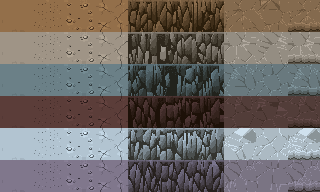
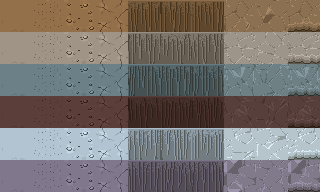
feat(odyssee): grottes en pentes de roche (plus de blocs carrés), montagnes des entrées inclinées avec une bouche en arche ; Odyssée 3.85
- relief des grottes calculé sur un champ de hauteur (4 × 4 facettes par case) : pentes, coins saillants arrondis, coins rentrants en creux
- stries de la roche dans le sens de la pente, pied plus sombre, lumière d'en haut à gauche
- monticules des entrées de grottes en troncs de pyramide, arche sombre

Claude-Session: https://claude.ai/code/session_01E9CUaRXpXWBZHeUs2KXzJU

diff --git a/odyssee/js/render/world3d.js b/odyssee/js/render/world3d.js
@@ -87,7 +87,7 @@ function tex(canvasOrImg) {
 const hash = (x, y) => { let h = (x * 374761393 + y * 668265263) ^ 0x5bd1e995; h = Math.imul(h ^ (h >>> 13), 1274126177); return ((h ^ (h >>> 16)) >>> 0) / 4294967296; };
 
 /** reliefs des grottes : hauteur à l'écran (en cases) du haut de chaque gradin, la première marche est la plus haute */
-const RLEVEL = [0, 0.9, 1.4, 1.8].map((h) => h * Math.tan(EL)), RPX = (k) => (RLEVEL[k + 1] - RLEVEL[k]) / Math.tan(EL);
+const RLEVEL = [0, 0.75, 1.2, 1.6].map((h) => h * Math.tan(EL)), RPX = (k) => (RLEVEL[k + 1] - RLEVEL[k]) / Math.tan(EL);
 /** gradin de chaque case de roche : distance (en cases) au sol praticable le plus proche, plafonnée à 3 */
 function caveTiers(m) {
   const n = m.w * m.h, d = new Uint8Array(n).fill(255), q = [];
@@ -111,6 +111,36 @@ function caveTiers(m) {
   }
   return d;
 }
+/** relief des grottes en pentes (comme HeartGold / SoulSilver : de la roche, pas des blocs carrés) : hauteur aux sommets
+ *  d'une grille de RN × RN points par case. Chaque gradin monte en pente sur RS case depuis le bord de la roche du gradin
+ *  du dessous (distance au plus proche carré qui n'en fait pas partie) : coins saillants arrondis, coins rentrants en creux */
+const RN = 4, RS = 0.5;
+function caveHeights(m, tiers) {
+  const W = m.w * RN + 1, H = m.h * RN + 1, h = new Float32Array(W * H);
+  // toute la roche monte au moins d'un gradin (même au ras d'un sol au nord : sa pente regarde vers le fond, on ne la voit pas)
+  const tierAt = (x, y) => (x < 0 || y < 0 || x >= m.w || y >= m.h ? 3 : m.t[y * m.w + x] === T.CAVEWALL ? Math.max(1, tiers[y * m.w + x]) : 0);
+  const R = Math.ceil(RS) + 1;
+  for (let j = 0; j < H; j++) for (let i = 0; i < W; i++) {
+    const px = i / RN, pz = j / RN, cx = Math.floor(px - 1e-6), cz = Math.floor(pz - 1e-6);
+    let v = 0;
+    for (let t = 1; t <= 3; t++) {
+      // distance au plus proche carré de gradin < t
+      let d = 9;
+      for (let b = cz - R; b <= cz + R + 1; b++) for (let a = cx - R; a <= cx + R + 1; a++) {
+        if (tierAt(a, b) >= t) continue;
+        const dx = Math.max(a - px, 0, px - (a + 1)), dz = Math.max(b - pz, 0, pz - (b + 1));
+        const dd = Math.hypot(dx, dz); if (dd < d) d = dd;
+      }
+      if (d <= 0) break;
+      const u = Math.min(1, d / RS);
+      v += (RLEVEL[t] - RLEVEL[t - 1]) * (1 - 0.35 * (1 - u) * (1 - u) - 0.65 * (1 - u));
+      if (u < 1) break;
+    }
+    h[j * W + i] = v;
+  }
+  return { h, W };
+}
+
 /** roche et sol d'une grotte selon le lieu : grottes marines, magma, glace, montagne, sinon terre */
 export function caveBiome(m) {
   const id = m.id || '', nm = (m.name || '').toLowerCase();
@@ -151,6 +181,54 @@ function rockBox(G, A, bio, x0, z0, x1, z1, y0, y1, seed, topCell = null) {
   }
 }
 
+/** bloc de roche en pente (monticule des entrées de grottes, comme HeartGold / SoulSilver) : faces sud / est / ouest
+ *  inclinées vers l'intérieur de `s` cases, coins en biais ; stries de la roche dans le sens de la pente, pied plus sombre */
+function rockSlope(G, A, bio, x0, z0, x1, z1, y0, y1, s, seed, topCell = null) {
+  const H = (y1 - y0) / Math.tan(EL), rows = Math.max(1, Math.round(H / 0.8));
+  const cell = (i, k) => A[`rw_${bio}_${Math.floor(hash(i * 7 + seed, k * 13 + seed) * 3)}`] || A[`rw_${bio}_0`];
+  const uv = (c, u, v) => [c[0] + (c[2] - c[0]) * u, c[1] + (c[3] - c[1]) * v];
+  const foot = (t) => 0.66 + 0.34 * Math.min(1, t * 1.8);
+  const lerp = (a, b, f) => a + (b - a) * f;
+  for (let r = 0; r < rows; r++) {
+    const ta = r / rows, tb = (r + 1) / rows, ya = lerp(y0, y1, ta), yb = lerp(y0, y1, tb);
+    // sud : de x0..x1 en bas à x0+s..x1-s en haut
+    const nx = Math.max(1, Math.round(x1 - x0));
+    for (let i = 0; i < nx; i++) {
+      const fa = i / nx, fb = (i + 1) / nx, c = cell(i, r * 3 + 1);
+      const xa = (t, f) => lerp(x0 + s * t, x1 - s * t, f), za = z1 - s * ta, zb = z1 - s * tb;
+      G.quadv([[xa(ta, fa), ya, za], [xa(ta, fb), ya, za], [xa(tb, fb), yb, zb], [xa(tb, fa), yb, zb]],
+        [uv(c, 0, 1), uv(c, 1, 1), uv(c, 1, 0), uv(c, 0, 0)], [0.92 * foot(ta), 0.92 * foot(ta), 0.92 * foot(tb), 0.92 * foot(tb)]);
+    }
+    // est et ouest : de z0..z1 en bas à z0+s..z1-s en haut
+    const nz = Math.max(1, Math.round(z1 - z0));
+    for (let i = 0; i < nz; i++) {
+      const fa = i / nz, fb = (i + 1) / nz, c = cell(i + 50, r * 3 + 2);
+      const zz = (t, f) => lerp(z0 + s * t, z1 - s * t, f);
+      const xe = (t) => x1 - s * t, xw = (t) => x0 + s * t;
+      G.quadv([[xe(ta), ya, zz(ta, fb)], [xe(ta), ya, zz(ta, fa)], [xe(tb), yb, zz(tb, fa)], [xe(tb), yb, zz(tb, fb)]],
+        [uv(c, 0, 1), uv(c, 1, 1), uv(c, 1, 0), uv(c, 0, 0)], [0.7 * foot(ta), 0.7 * foot(ta), 0.7 * foot(tb), 0.7 * foot(tb)]);
+      G.quadv([[xw(ta), ya, zz(ta, fa)], [xw(ta), ya, zz(ta, fb)], [xw(tb), yb, zz(tb, fb)], [xw(tb), yb, zz(tb, fa)]],
+        [uv(c, 0, 1), uv(c, 1, 1), uv(c, 1, 0), uv(c, 0, 0)], [1.0 * foot(ta), 1.0 * foot(ta), 1.0 * foot(tb), 1.0 * foot(tb)]);
+    }
+  }
+  const t = topCell || A[`rt_${bio}_0`], X0 = x0 + s, X1 = x1 - s, Z0 = z0 + s, Z1 = z1 - s;
+  for (let z = Z0; z < Z1 - 1e-6; z += 1) for (let x = X0; x < X1 - 1e-6; x += 1) {
+    const xe = Math.min(X1, x + 1), ze = Math.min(Z1, z + 1);
+    flat(G, x, z, xe, ze, y1, [t[0], t[1], t[0] + (t[2] - t[0]) * (xe - x), t[1] + (t[3] - t[1]) * (ze - z)], 1.04);
+  }
+}
+
+/** bouche de grotte : une arche sombre au bord irrégulier, plus noire au fond (pixel art, 32 × 24) */
+function grotteArche() {
+  const c = document.createElement('canvas'); c.width = 32; c.height = 24; const x = c.getContext('2d');
+  for (let py = 0; py < 24; py++) for (let px = 0; px < 32; px++) {
+    const dx = (px + 0.5 - 16) / 16, top = 24 - 22 * Math.sqrt(Math.max(0, 1 - dx * dx * dx * dx)) + (hash(px, 7) < 0.3 ? 1 : 0);
+    if (py + 0.5 < top) continue;
+    const edge = py + 0.5 < top + 1.6 || Math.abs(dx) > 0.9;
+    x.fillStyle = edge ? '#2a2420' : py < 14 ? '#0d0a08' : '#060504'; x.fillRect(px, py, 1, 1);
+  }
+  return c;
+}
 /** accumulateur de géométrie (quads indexés) */
 class Geo {
   constructor() { this.p = []; this.uv = []; this.c = []; this.i = []; this.n = 0; this.an = []; }
@@ -160,6 +238,13 @@ class Geo {
     this.p.push(...a, ...b, ...c, ...d);
     this.uv.push(u0, v1, u1, v1, u1, v0, u0, v0);
     for (let k = 0; k < 4; k++) this.c.push(shade, shade, shade);
+    const n = this.n; this.i.push(n, n + 1, n + 2, n, n + 2, n + 3); this.n += 4;
+  }
+  /** quad aux coordonnées de texture et teintes données sommet par sommet (pentes des grottes) */
+  quadv(ps, uvs, sh) {
+    for (const q of ps) this.p.push(q[0], q[1], q[2]);
+    for (const q of uvs) this.uv.push(q[0], q[1]);
+    for (const k of sh) this.c.push(k, k, k);
     const n = this.n; this.i.push(n, n + 1, n + 2, n, n + 2, n + 3); this.n += 4;
   }
   build() {
@@ -300,6 +385,7 @@ export class WorldView {
     this.chunks = new Map(); this.glows = new THREE.Group(); this.root.add(this.glows);
     this.decoAt = new Map(); for (const d of map.deco) this.decoAt.set(d.x + ',' + d.y, d);
     this.tiers = map.outdoor ? null : caveTiers(map); this.biome = caveBiome(map);
+    this.rh = this.tiers ? caveHeights(map, this.tiers) : null;
     this.scene.background = new THREE.Color(map.outdoor ? '#1d4f2a' : '#0c0a10');
     if (map.id === 'monde') this.scene.background = new THREE.Color('#1d4f2a');
     this.buildBuildings();
@@ -404,27 +490,46 @@ export class WorldView {
     }
   }
 
-  /** paroi de grotte en gradins (comme HeartGold / SoulSilver) : chaque case de roche monte d'un gradin par case
-   *  qui l'éloigne du sol praticable (trois au plus) ; une face de roche par gradin là où le voisin est plus bas */
+  /** roche de grotte en pentes : la case est découpée en RN × RN facettes posées sur le champ de hauteur ; une facette
+   *  plate prend le dessus de roche, une facette en pente la paroi striée, les stries dans le sens de la pente ;
+   *  la lumière vient d'en haut à gauche */
   reliefCell(G, x, y) {
-    const m = this.map, A = this.A.cells, b = this.biome, tier = this.tierAt(x, y), h = Math.max(RLEVEL[tier], 0.006);
-    // face : le haut de la tuile de roche, sur la hauteur du gradin (un pixel de tuile = un pixel d'écran)
-    const face = (k, i) => { const c = A[`rw_${b}_${Math.floor(hash(x * 3 + k, y * 5 + i) * 3)}`] || A[`rw_${b}_0`]; return [c[0], c[1], c[2], c[1] + (c[3] - c[1]) * RPX(i)]; };
-    let edge = false;
-    for (const [dx, dy, side] of [[0, 1, 's'], [1, 0, 'e'], [-1, 0, 'w']]) {
-      const hn = m.get(x + dx, y + dy) === T.CAVEWALL ? this.tierAt(x + dx, y + dy) : 0;
-      if (side === 's' && hn < tier) edge = true;
-      for (let k = hn; k < tier; k++) {
-        const c = face(side.charCodeAt(0), k), y0 = RLEVEL[k], y1 = RLEVEL[k + 1];
-        if (side === 's') G.quad([x, y0, y + 1], [x + 1, y0, y + 1], [x + 1, y1, y + 1], [x, y1, y + 1], c[0], c[1], c[2], c[3], 0.86 + k * 0.05);
-        else if (side === 'e') G.quad([x + 1, y0, y + 1], [x + 1, y0, y], [x + 1, y1, y], [x + 1, y1, y + 1], c[0], c[1], c[2], c[3], 0.7);
-        else G.quad([x, y0, y], [x, y0, y + 1], [x, y1, y + 1], [x, y1, y], c[0], c[1], c[2], c[3], 0.7);
+    const A = this.A.cells, b = this.biome, { h, W } = this.rh, tier = Math.max(1, this.tierAt(x, y));
+    const at = (i, j) => h[(y * RN + j) * W + x * RN + i];
+    let flatAll = true; const h0 = at(0, 0);
+    for (let j = 0; j <= RN && flatAll; j++) for (let i = 0; i <= RN; i++) if (Math.abs(at(i, j) - h0) > 1e-4) { flatAll = false; break; }
+    const topC = A[`rt_${b}_${hash(x + 11, y + 13) < 0.7 ? 0 : 1}`] || A[`rt_${b}_0`];
+    const dark = 1.08 - tier * 0.05;
+    if (flatAll) { flat(G, x, y, x + 1, y + 1, h0, topC, dark); return; }
+    const L = [-0.42, 1, 0.62], LN = Math.hypot(...L);
+    const uvOf = (c, lu, lv) => [c[0] + (c[2] - c[0]) * lu, c[1] + (c[3] - c[1]) * lv];
+    for (let j = 0; j < RN; j++) for (let i = 0; i < RN; i++) {
+      // sommets : a = sud-ouest, b = sud-est, c = nord-est, d = nord-ouest
+      const ha = at(i, j + 1), hb = at(i + 1, j + 1), hc = at(i + 1, j), hd = at(i, j);
+      const x0 = x + i / RN, x1 = x + (i + 1) / RN, z0 = y + j / RN, z1 = y + (j + 1) / RN;
+      const ps = [[x0, ha, z1], [x1, hb, z1], [x1, hc, z0], [x0, hd, z0]];
+      const gx = ((hb - ha) + (hc - hd)) / 2 * RN, gz = ((ha - hd) + (hb - hc)) / 2 * RN;
+      const hmax = Math.max(ha, hb, hc, hd), hmin = Math.min(ha, hb, hc, hd);
+      if (hmax - hmin < 1e-4) {
+        const lu0 = i / RN, lu1 = (i + 1) / RN, lv0 = j / RN, lv1 = (j + 1) / RN;
+        G.quadv(ps, [uvOf(topC, lu0, lv1), uvOf(topC, lu1, lv1), uvOf(topC, lu1, lv0), uvOf(topC, lu0, lv0)], [dark, dark, dark, dark]);
+        continue;
       }
+      // gradin de la pente : celui dont le haut est juste au-dessus de la facette
+      let t = 1; while (t < 3 && RLEVEL[t] < hmax - 1e-4) t++;
+      const band = RLEVEL[t] - RLEVEL[t - 1];
+      const lv = (q) => Math.min(1, Math.max(0, (RLEVEL[t] - q) / band));
+      const ns = Math.abs(gz) >= Math.abs(gx);
+      const c = A[`rw_${b}_${Math.floor(hash(x * 3 + (ns ? 1 : 2), y * 5 + t) * 3)}`] || A[`rw_${b}_0`];
+      // le long de la pente : u suit le bord (x pour une pente nord-sud, z pour une pente est-ouest)
+      const lu = ns ? [i / RN, (i + 1) / RN, (i + 1) / RN, i / RN] : [(j + 1) / RN, (j + 1) / RN, j / RN, j / RN];
+      const uvs = [uvOf(c, lu[0], lv(ha)), uvOf(c, lu[1], lv(hb)), uvOf(c, lu[2], lv(hc)), uvOf(c, lu[3], lv(hd))];
+      const n = [-gx, 1, -gz], nn = Math.hypot(...n), dot = (n[0] * L[0] + n[1] * L[1] + n[2] * L[2]) / (nn * LN);
+      const sh = Math.min(1.1, 0.68 + 0.45 * Math.max(0, dot)) * (1 - (t - 1) * 0.04);
+      // pied de la pente plus sombre (la roche se détache du sol), haut éclairé
+      const foot = (q) => sh * (0.62 + 0.38 * Math.min(1, (q - RLEVEL[t - 1]) / band * 1.6));
+      G.quadv(ps, uvs, [foot(ha), foot(hb), foot(hc), foot(hd)]);
     }
-    // dessus : liseré clair au bord d'une paroi, roche rugueuse ailleurs ; plus c'est haut, plus c'est sombre (le fond de la grotte)
-    if (!tier) return;   // gradin zéro : roche au ras du sol, dessinée avec le sol
-    const top = (edge && A[`rr_${b}_0`]) || A[`rt_${b}_${hash(x + 11, y + 13) < 0.7 ? 0 : 1}`] || A[`rt_${b}_0`];
-    flat(G, x, y, x + 1, y + 1, h, top, 1.02 - tier * 0.06);
   }
   /** détail posé sur une case d'herbe (ou rien) : selon la zone (forêt, neige, cendre) et un tirage fixe par case */
   detailAt(x, y) {
@@ -490,18 +595,13 @@ export class WorldView {
       } else if (t === T.CAVEWALL) {
         if (this.tiers && A['rw_' + this.biome + '_0']) {
           this.reliefCell(Wl, x, y);
-          // rochers pointus (comme dans HeartGold / SoulSilver) : un amas de pointes sur la roche au ras du sol,
-          // et de temps en temps une pointe dressée sur un gradin
-          const b = this.biome, tier = this.tierAt(x, y), v2 = hash(x * 5 + 3, y * 7 + 11);
-          if (!tier) {
-            const r = S[`pic_${b}_${Math.floor(v2 * 3)}`];
-            if (r) {
-              billboard(P, x + 0.5, y + 0.82, SW(r), SH(r), r, 0, v > 0.5);
-              flat(Sh, x + 0.02, y + 0.45, x + 0.98, y + 0.95, 0.015, [S.shadow.u0, S.shadow.v0, S.shadow.u1, S.shadow.v1]);
-            }
-          } else if (v2 < 0.2) {
-            const r = S[`cone_${b}_${Math.floor(hash(x + 41, y + 43) * 3)}`];
-            if (r) billboard(P, x + 0.5 + (v - 0.5) * 0.3, y + 0.7, SW(r), SH(r), r, RLEVEL[tier], v > 0.5);
+          // rochers pointus (comme dans HeartGold / SoulSilver) : de temps en temps un amas de pointes ou une pointe dressée
+          // sur le haut de la roche (là où il est plat)
+          const b = this.biome, tier = Math.max(1, this.tierAt(x, y)), v2 = hash(x * 5 + 3, y * 7 + 11);
+          const { h, W } = this.rh, hh = h[(y * RN + RN / 2) * W + x * RN + RN / 2];
+          if (v2 < 0.16 && hh >= RLEVEL[tier] - 1e-3) {
+            const r = v2 < 0.07 ? S[`pic_${b}_${Math.floor(hash(x + 41, y + 43) * 3)}`] : S[`cone_${b}_${Math.floor(hash(x + 41, y + 43) * 3)}`];
+            if (r) billboard(P, x + 0.5 + (v - 0.5) * 0.25, y + 0.62, SW(r), SH(r), r, hh, v > 0.5);
           }
         } else {
           const south = m.get(x, y + 1) !== T.CAVEWALL, east = m.get(x + 1, y) !== T.CAVEWALL, west = m.get(x - 1, y) !== T.CAVEWALL;
@@ -578,18 +678,17 @@ export class WorldView {
         const geo = new Geo(), A = this.A.cells;
         const th = this.map.zoneAt?.(b.x, b.y)?.theme, bio = th === 'snow' ? 'glace' : th === 'volcanic' ? 'magma' : th === 'beach' || th === 'sea' ? 'mer' : 'montagne';
         if (A[`rw_${bio}_0`]) {
-          // monticule en gradins de roche (comme les entrées de grottes de HeartGold / SoulSilver) : trois marches en retrait
-          // dessus des marches : le sol du coin (herbe, neige, cendre), comme les falaises herbues des jeux DS
-          const top = th === 'snow' ? A.snow0 : th === 'volcanic' ? A.ash0 : A.grass1 || A.grass0;
-          const T1 = 1.3 * Math.tan(EL), T2 = 2.1 * Math.tan(EL), T3 = 2.8 * Math.tan(EL);
-          rockBox(geo, A, bio, b.x - 0.35, b.y + 0.5, b.x + b.w + 0.35, b.y + b.d, 0, T1, 1, top);
-          rockBox(geo, A, bio, b.x + 0.15, b.y + 0.1, b.x + b.w - 0.15, b.y + b.d - 0.5, T1, T2, 2, top);
-          rockBox(geo, A, bio, b.x + 0.8, b.y - 0.2, b.x + b.w - 0.8, b.y + b.d - 1.0, T2, T3, 3, top);
+          // montagne de roche en pentes (comme les entrées de grottes de HeartGold / SoulSilver) : trois étages en retrait,
+          // flancs inclinés, dessus en roche
+          const T1 = 1.15 * Math.tan(EL), T2 = 1.9 * Math.tan(EL), T3 = 2.5 * Math.tan(EL);
+          rockSlope(geo, A, bio, b.x - 0.5, b.y + 0.2, b.x + b.w + 0.5, b.y + b.d, 0, T1, 0.65, 1);
+          rockSlope(geo, A, bio, b.x + 0.05, b.y - 0.1, b.x + b.w - 0.05, b.y + b.d - 0.75, T1, T2, 0.6, 2);
+          rockSlope(geo, A, bio, b.x + 0.7, b.y - 0.3, b.x + b.w - 0.7, b.y + b.d - 1.6, T2, T3, 0.5, 3);
         } else box(geo, b.x, b.y, b.x + b.w, b.y + b.d, 1.6 * Math.tan(EL), A.cliffplain, A.cliff, A.cliffplain);
         const cm = frontDepth(new THREE.MeshBasicMaterial({ map: this.texA, vertexColors: true }), zf); this.tinted.push(cm); cm.color.copy(this.tint);
         const mesh = new THREE.Mesh(geo.build(), cm); g.add(mesh);
-        const holeW = 1.6, holeH = 1.15 * Math.tan(EL);
-        const hole = new THREE.Mesh(new THREE.PlaneGeometry(holeW, holeH), new THREE.MeshBasicMaterial({ color: 0x0a0806 }));
+        const holeW = 1.9, holeH = 1.3 * Math.tan(EL);
+        const hole = new THREE.Mesh(new THREE.PlaneGeometry(holeW, holeH), new THREE.MeshBasicMaterial({ map: T3('arche', grotteArche), transparent: true, alphaTest: 0.5 }));
         hole.position.set(b.doorX + 0.5, holeH / 2, b.y + b.d + 0.01); g.add(hole);
         this.root.add(g); this.buildingMeshes.push(g); continue;
       }

diff --git a/index.html b/index.html
@@ -25,7 +25,7 @@
 <link rel="preconnect" href="https://fonts.googleapis.com">
 <link rel="preconnect" href="https://fonts.gstatic.com" crossorigin>
 <link href="https://fonts.googleapis.com/css2?family=Bungee&family=Chakra+Petch:wght@500;600;700&display=swap" rel="stylesheet">
-<link rel="stylesheet" href="hub/hub.css?v=3.84">
+<link rel="stylesheet" href="hub/hub.css?v=3.85">
 </head>
 <body>
 
@@ -136,21 +136,21 @@
 <!-- JEU -->
 <section class="screen" id="play"></section>
 
-<script src="shared/logger.js?v=3.84"></script>
-<script src="shared/net.js?v=3.84"></script>
-<script src="shared/room.js?v=3.84"></script>
-<script src="shared/profile.js?v=3.84"></script>
-<script src="shared/results.js?v=3.84"></script>
-<script src="shared/volume.js?v=3.84"></script>
-<script src="shared/uisfx.js?v=3.84"></script>
-<script src="hub/nettest.js?v=3.84"></script>
-<script src="hub/games.js?v=3.84"></script>
-<script src="hub/account.js?v=3.84"></script>
-<script src="hub/friends.js?v=3.84"></script>
-<script src="hub/hub.js?v=3.84"></script>
-<script src="hub/home.js?v=3.84"></script>
-<script src="shared/padnav.js?v=3.84"></script>
-<script src="hub/ingame.js?v=3.84"></script>
-<script type="module" src="hub/music.js?v=3.84"></script>
+<script src="shared/logger.js?v=3.85"></script>
+<script src="shared/net.js?v=3.85"></script>
+<script src="shared/room.js?v=3.85"></script>
+<script src="shared/profile.js?v=3.85"></script>
+<script src="shared/results.js?v=3.85"></script>
+<script src="shared/volume.js?v=3.85"></script>
+<script src="shared/uisfx.js?v=3.85"></script>
+<script src="hub/nettest.js?v=3.85"></script>
+<script src="hub/games.js?v=3.85"></script>
+<script src="hub/account.js?v=3.85"></script>
+<script src="hub/friends.js?v=3.85"></script>
+<script src="hub/hub.js?v=3.85"></script>
+<script src="hub/home.js?v=3.85"></script>
+<script src="shared/padnav.js?v=3.85"></script>
+<script src="hub/ingame.js?v=3.85"></script>
+<script type="module" src="hub/music.js?v=3.85"></script>
 </body>
 </html>

diff --git a/apropos.html b/apropos.html
@@ -13,7 +13,7 @@
 <link rel="preconnect" href="https://fonts.googleapis.com">
 <link rel="preconnect" href="https://fonts.gstatic.com" crossorigin>
 <link href="https://fonts.googleapis.com/css2?family=Bungee&family=Chakra+Petch:wght@500;600;700&display=swap" rel="stylesheet">
-<link rel="stylesheet" href="hub/hub.css?v=3.84">
+<link rel="stylesheet" href="hub/hub.css?v=3.85">
 <style>
   .doc{width:min(860px,100%);margin:0 auto;display:flex;flex-direction:column;gap:22px}
   .doc .card h2{margin-top:0}

diff --git a/hub/hub.js b/hub/hub.js
@@ -1,7 +1,7 @@
 /* Hub : profil, salon commun et lancement des jeux dans une iframe.
    Le salon (DDRoom) vit ici pendant toute la session : changer de jeu ne coupe pas la connexion. */
 (function () {
-  const VERSION = '3.84';
+  const VERSION = '3.85';
   const $ = (s) => document.querySelector(s);
   const ORIGIN = location.origin === 'null' ? '*' : location.origin;
   const GAMES = window.HUB_GAMES;

diff --git a/CHANGELOG.md b/CHANGELOG.md
@@ -1,5 +1,11 @@
 # Journal des versions — Arcadia
 
+## 3.85 — 3 novembre 2026
+- **Odyssée** — Des grottes en vraie roche :
+  - Les parois ne sont plus des blocs carrés : la roche monte en pentes, avec des coins en biais et des terrasses, comme sur DS.
+  - Les montagnes autour des entrées de grottes ont des flancs inclinés et une vraie bouche en arche.
+  - Les rochers pointus se dressent sur le haut des parois, un peu moins nombreux.
+
 ## 3.84 — 3 novembre 2026
 - **Odyssée** — Décors et confort :
   - Les grottes ont de vraies parois de roche, en gradins comme sur DS, hérissées de rochers pointus.
